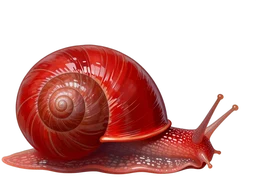
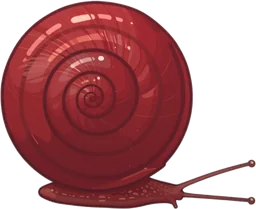
選育紀錄改存記憶體、中景水草圖壓小（#111 架構建議）；扁卷螺改扁盤殼 (#117)
* 選育紀錄存在記憶體、中景水草圖壓小（架構審查 #111 建議）

- StrainTracker：開遊戲時讀一次裝置紀錄，之後每半秒的檢查只看記憶體
- mid-plants-left 640→420 寬，164KB→73KB（模糊後畫在後景，看不出差別）

Claude-Session: https://claude.ai/code/session_01KsbS4vLZbfPytVNgNzSz4q

* 扁卷螺改成扁盤狀殼（第 15 批）

Claude-Session: https://claude.ai/code/session_01KsbS4vLZbfPytVNgNzSz4q
(cherry picked from commit d391462e90101cd1e5dffa987f3d64e0b5591e43)

---------

diff --git a/src/ui/strain-moment.test.ts b/src/ui/strain-moment.test.ts
@@ -1,7 +1,7 @@
 import { describe, expect, it } from 'vitest';
 import { newGameState } from '../game/game';
 import { addFish, guppyRarity, phenotype, strainName, type TankState } from '../sim';
-import { newStrains, STRAINS_KEY, strainOwnerLine } from './strain-moment';
+import { StrainTracker, STRAINS_KEY, strainOwnerLine } from './strain-moment';
 
 const memoryStore = () => {
   const m = new Map<string, string>();
@@ -18,45 +18,68 @@ function bredMale(s: TankState, generation = 2) {
 describe('選育成功的演出', () => {
   it('第一次執行只記下現有品系，不補放演出', () => {
     const store = memoryStore();
+    const tracker = new StrainTracker(store);
     const s = newGameState(3);
     bredMale(s);
-    expect(newStrains(store, [s])).toEqual([]);
+    expect(tracker.check([s])).toEqual([]);
     expect(store.getItem(STRAINS_KEY)).not.toBeNull();
   });
 
   it('自家繁殖的公魚長出沒見過的品系就慶祝一次，同一品系不再演', () => {
     const store = memoryStore();
+    const tracker = new StrainTracker(store);
     const s = newGameState(3);
-    newStrains(store, [s]);
+    tracker.check([s]);
     const f = bredMale(s);
-    const finds = newStrains(store, [s]);
+    const finds = tracker.check([s]);
     expect(finds).toHaveLength(1);
     expect(finds[0].fish).toBe(f);
     expect(finds[0].name).toBe(strainName(phenotype(f.genome!)));
     expect(finds[0].rarity).toBe(guppyRarity(phenotype(f.genome!)));
     bredMale(s);
-    expect(newStrains(store, [s])).toEqual([]);
+    expect(tracker.check([s])).toEqual([]);
   });
 
   it('店裡買的魚、母魚、還沒長大的魚都不算', () => {
     const store = memoryStore();
+    const tracker = new StrainTracker(store);
     const s = newGameState(3);
-    newStrains(store, [s]);
+    tracker.check([s]);
     bredMale(s, 0);
     const female = addFish(s, 'guppy', { sex: 'female', strain: 3, fin: 'swallow', carriesIch: false });
     female.generation = 1;
     const young = bredMale(s);
     young.lengthCm = 0.8;
-    expect(newStrains(store, [s])).toEqual([]);
+    expect(tracker.check([s])).toEqual([]);
   });
 
   it('其他缸也算，回傳哪一缸', () => {
     const store = memoryStore();
+    const tracker = new StrainTracker(store);
     const a = newGameState(3);
     const b = newGameState(4);
-    newStrains(store, [a, b]);
+    tracker.check([a, b]);
     bredMale(b);
-    expect(newStrains(store, [a, b])[0].tank).toBe(1);
+    expect(tracker.check([a, b])[0].tank).toBe(1);
+  });
+
+  it('紀錄只在開遊戲時讀一次，之後不再讀裝置儲存', () => {
+    const store = memoryStore();
+    let reads = 0;
+    const counting = { ...store, getItem: (k: string) => (reads++, store.getItem(k)) };
+    const tracker = new StrainTracker(counting);
+    const s = newGameState(3);
+    for (let i = 0; i < 5; i++) tracker.check([s]);
+    expect(reads).toBe(1);
+  });
+
+  it('重開遊戲讀回紀錄，同一品系不再演', () => {
+    const store = memoryStore();
+    const s = newGameState(3);
+    new StrainTracker(store).check([s]);
+    bredMale(s);
+    expect(new StrainTracker(store).check([s])).toHaveLength(1);
+    expect(new StrainTracker(store).check([s])).toEqual([]);
   });
 
   it('老闆的話依稀有度不同', () => {

diff --git a/src/ui/strain-moment.ts b/src/ui/strain-moment.ts
@@ -35,33 +35,45 @@ function load(store: KeyValueStore): Set<string> | null {
 }
 
 /**
- * 找出這次新出現的品系（同一個品系只回傳最稀有、最大的那條）。
- * 第一次執行（舊存檔剛更新）只把現有的品系記下來，不補放演出，免得一開遊戲連跳好幾張卡。
+ * 記得已經慶祝過哪些品系：開遊戲時從裝置讀一次，之後存在記憶體（每半秒檢查一次，不每次讀 localStorage），有新品系才寫回。
  */
-export function newStrains(store: KeyValueStore, tanks: TankState[]): StrainFind[] {
-  const seen = load(store);
-  const found = new Map<string, StrainFind>();
-  tanks.forEach((t, tank) => {
-    for (const fish of t.fish) {
-      if (!showsStrain(fish)) continue;
-      const p = phenotype(fish.genome!);
-      const rarity = guppyRarity(p);
-      if (rarity === 'common') continue;
-      const name = strainName(p);
-      const prev = found.get(name);
-      if (!prev || RANK[rarity] > RANK[prev.rarity] || (rarity === prev.rarity && fish.lengthCm > prev.fish.lengthCm)) found.set(name, { tank, fish, name, rarity });
-    }
-  });
-  const fresh = seen ? [...found.values()].filter((f) => !seen.has(f.name)) : [];
-  if (!seen || fresh.length) {
-    const all = new Set([...(seen ?? []), ...found.keys()]);
-    try {
-      store.setItem(STRAINS_KEY, JSON.stringify([...all]));
-    } catch {
-      // 存不了（無痕模式）就每次開遊戲重新記
-    }
+export class StrainTracker {
+  /** null：這台裝置還沒有紀錄（舊存檔剛更新）。 */
+  private seen: Set<string> | null;
+
+  constructor(private readonly store: KeyValueStore) {
+    this.seen = load(store);
   }
-  return fresh.sort((a, b) => RANK[b.rarity] - RANK[a.rarity]);
+
+  /**
+   * 找出這次新出現的品系（同一個品系只回傳最稀有、最大的那條）。
+   * 第一次執行（舊存檔剛更新）只把現有的品系記下來，不補放演出，免得一開遊戲連跳好幾張卡。
+   */
+  check(tanks: TankState[]): StrainFind[] {
+    const found = new Map<string, StrainFind>();
+    tanks.forEach((t, tank) => {
+      for (const fish of t.fish) {
+        if (!showsStrain(fish)) continue;
+        const p = phenotype(fish.genome!);
+        const rarity = guppyRarity(p);
+        if (rarity === 'common') continue;
+        const name = strainName(p);
+        const prev = found.get(name);
+        if (!prev || RANK[rarity] > RANK[prev.rarity] || (rarity === prev.rarity && fish.lengthCm > prev.fish.lengthCm)) found.set(name, { tank, fish, name, rarity });
+      }
+    });
+    const seen = this.seen;
+    const fresh = seen ? [...found.values()].filter((f) => !seen.has(f.name)) : [];
+    if (!seen || fresh.length) {
+      this.seen = new Set([...(seen ?? []), ...found.keys()]);
+      try {
+        this.store.setItem(STRAINS_KEY, JSON.stringify([...this.seen]));
+      } catch {
+        // 存不了（無痕模式）就只記在這次遊戲裡
+      }
+    }
+    return fresh.sort((a, b) => RANK[b.rarity] - RANK[a.rarity]);
+  }
 }
 
 /** 阿德老闆對新品系說的話。 */

diff --git a/src/main.ts b/src/main.ts
@@ -50,7 +50,7 @@ import { firstTime, type MomentId } from './ui/moments';
 import { causeAdvice, HUNGER_LABEL, needsAdvice } from './ui/owner-advice';
 import { ownerSay } from './ui/owner-ask';
 import { fryArt, guppyArt } from './ui/shop-cards';
-import { newStrains, strainOwnerLine } from './ui/strain-moment';
+import { StrainTracker, strainOwnerLine } from './ui/strain-moment';
 import { recordsPanel } from './ui/records';
 import { loadCodexSeen, saveCodexSeen, unlockCodex } from './ui/codex';
 import { codexPanel } from './ui/codex-panel';
@@ -870,8 +870,9 @@ async function start(): Promise<void> {
     if (msg) toasts.show(tankPrefix(tank) + msg.text, msg.tone);
   });
   // 選育成功：自家繁殖的公魚第一次長出沒見過的品系
+  const strains = new StrainTracker(store);
   const celebrateStrains = () => {
-    const [top, ...rest] = newStrains(store, game.tanks);
+    const [top, ...rest] = strains.check(game.tanks);
     if (!top) return;
     const p = sim.phenotype(top.fish.genome!);
     const fin = p.bigC ? 'bigC' : p.swallow ? 'swallow' : p.ribbon ? 'ribbon' : p.tailShape === 'halfmoon' ? 'halfmoon' : undefined;
